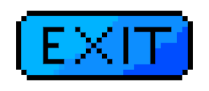
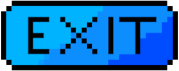
add menu button

diff --git a/differents_views.py b/differents_views.py
@@ -28,13 +28,14 @@ class StartView(arcade.View):
         
     def setup(self):
         self.ui_menager.purge_ui_elements()
-        button_exit = buttons.ExiteButton(self.width - self.exit_texture.width //2  , self.exit_texture.height //2 , self.exit_texture)
+        button_exit = buttons.ExiteButton(self.width - self.exit_texture.width //2  , self.exit_texture.height * 0.65 , self.exit_texture)
         self.ui_menager.add_ui_element(button_exit)
+
     def on_draw(self):
         arcade.start_render()
         arcade.draw_texture_rectangle(self.width //2 , self.height // 2, self.width, self.height, self.background)
         arcade.draw_scaled_texture_rectangle(self.width // 2, self.height - self.name.height * 0.6, self.name)
-        arcade.draw_scaled_texture_rectangle(self.width // 2, self.play_label.height * 0.6 , self.play_label)
+        arcade.draw_scaled_texture_rectangle(self.width // 2, self.play_label.height * 0.65 , self.play_label)
     
     def on_key_release(self, symbol, modifiers):
         if symbol == arcade.key.SPACE:
@@ -60,6 +61,7 @@ class GameOverView(arcade.View):
         self.score_texture = arcade.load_texture(SCORE['textureb'])
         self.play_again_texture = arcade.load_texture(BUTTONS["play_again"])
         self.exit_texture = arcade.load_texture(BUTTONS["exit"])
+        self.menu_texture = arcade.load_texture(BUTTONS['menu'])
         self.ui_menager = UIManager()
 
     def on_hide_view(self):
@@ -71,9 +73,11 @@ class GameOverView(arcade.View):
     def setup(self):
         self.ui_menager.purge_ui_elements()
         button_play_again = buttons.PlayAgainButton(self.width //2 , self.height // 4, self.play_again_texture)
-        button_exit = buttons.ExiteButton(self.width - self.exit_texture.width //2  , self.exit_texture.height //2 , self.exit_texture)
+        button_exit = buttons.ExiteButton(self.width - self.exit_texture.width //2  , self.exit_texture.height * 0.6 , self.exit_texture)
+        button_menu = buttons.MenuButton(self.menu_texture.width // 2, self.menu_texture.height * 0.6)
         self.ui_menager.add_ui_element(button_play_again)
         self.ui_menager.add_ui_element(button_exit)
+        self.ui_menager.add_ui_element(button_menu)
         self.score_y = (self.height - self.game_over.height  - button_play_again.height // 2) // 2 + button_play_again.height // 2 + self.height // 4
         self.score_x = (self.width - self.score_width - self.score_texture.width // 10)  //2 
         arcade.start_render()

diff --git a/buttons.py b/buttons.py
@@ -1,5 +1,6 @@
 import arcade
 import flappy_bird
+import differents_views
 from arcade.gui import  UIImageButton
 from game_variables import *
 import sys
@@ -16,3 +17,9 @@ class ExiteButton(UIImageButton):
         super().__init__(normal_texture,center_x=center_x, center_y=center_y,)
     def on_click(self):
         sys.exit()
+class MenuButton(UIImageButton):
+    def __init__(self, center_x, center_y,normal_texture=arcade.load_texture(BUTTONS["menu"]) ):
+        super().__init__(normal_texture,center_x=center_x, center_y=center_y,)
+    def on_click(self):
+        view = differents_views.StartView()
+        view.window.show_view(view)

diff --git a/game_variables.py b/game_variables.py
@@ -11,7 +11,8 @@ GAME_OVER = ["asserts" + sep + "Images" + sep + "game_over.png"]
 BUTTONS = {
     "play_again": "asserts" + sep + "Images" + sep + "play_again.png",
     "exit": "asserts" + sep + "Images" + sep + "exit.png",
-    "play": "asserts" + sep + "Images" + sep + "play.png"}
+    "play": "asserts" + sep + "Images" + sep + "play.png",
+    "menu": "asserts" + sep + "Images" + sep + "menu.png"}
 
 
 SOUNDS = {

diff --git a/flappy_bird.py b/flappy_bird.py
@@ -56,7 +56,7 @@ class GameView(arcade.View):
         self.pipe_sprites.draw()
         self.score_board.draw()
         self.bird.draw()
-        arcade.draw_scaled_texture_rectangle(self.width // 2, self.instruction.height * 0.6, self.instruction)
+        arcade.draw_scaled_texture_rectangle(self.width // 2, self.instruction.height * 0.65, self.instruction)
         
 
     def on_draw(self):

diff --git a/pipe.py b/pipe.py
@@ -6,9 +6,8 @@ class Pipe(arcade.Sprite):
 
     def __init__(self, image, scale = 0.6):
         """ Initial pipes"""
-
         super().__init__(image, scale)
-
+        self.alpha = 255
         self.horizontal_speed = -PIPE_SPEED
         self.scored = False # Boolen expresion if bird passed this pipe
 
